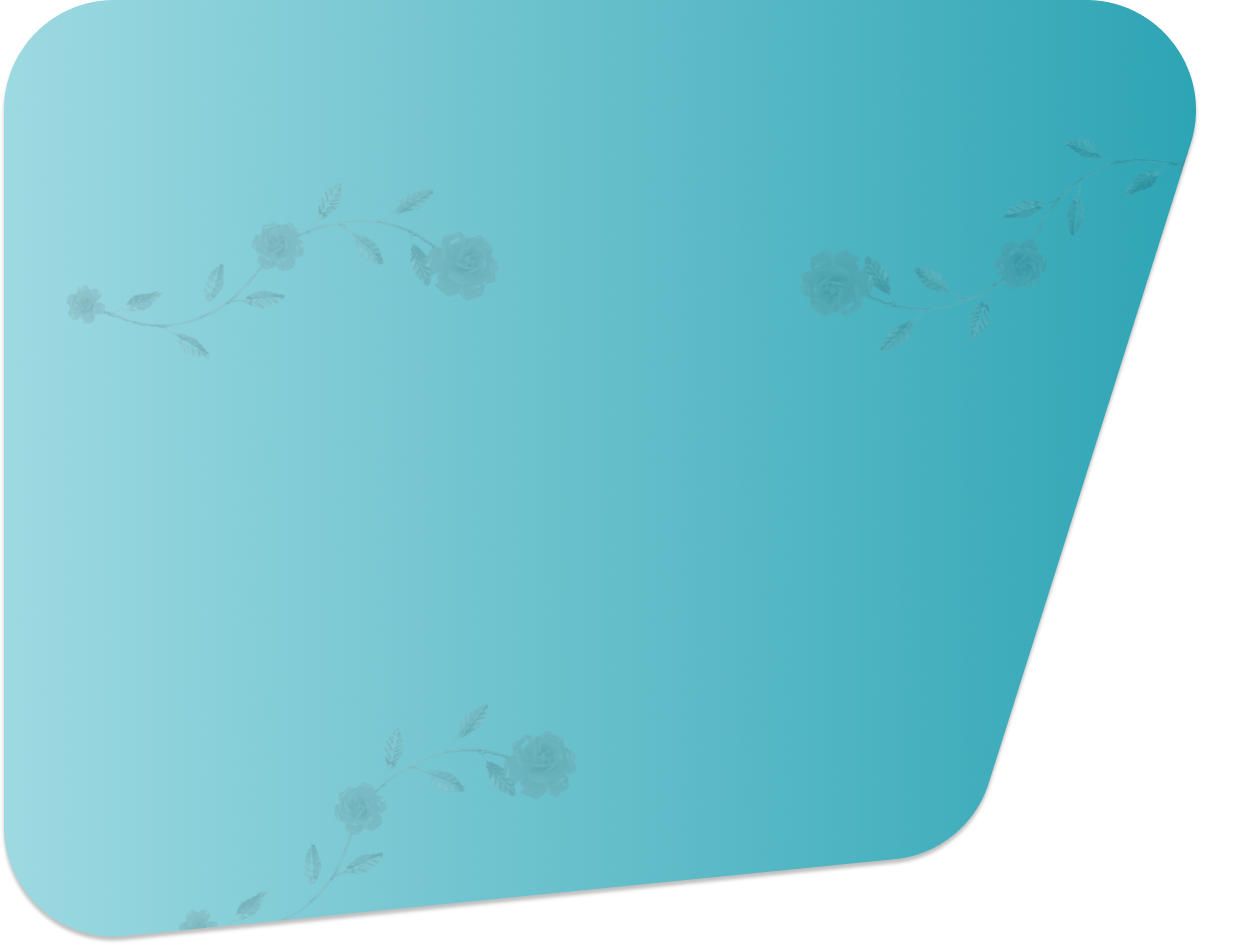
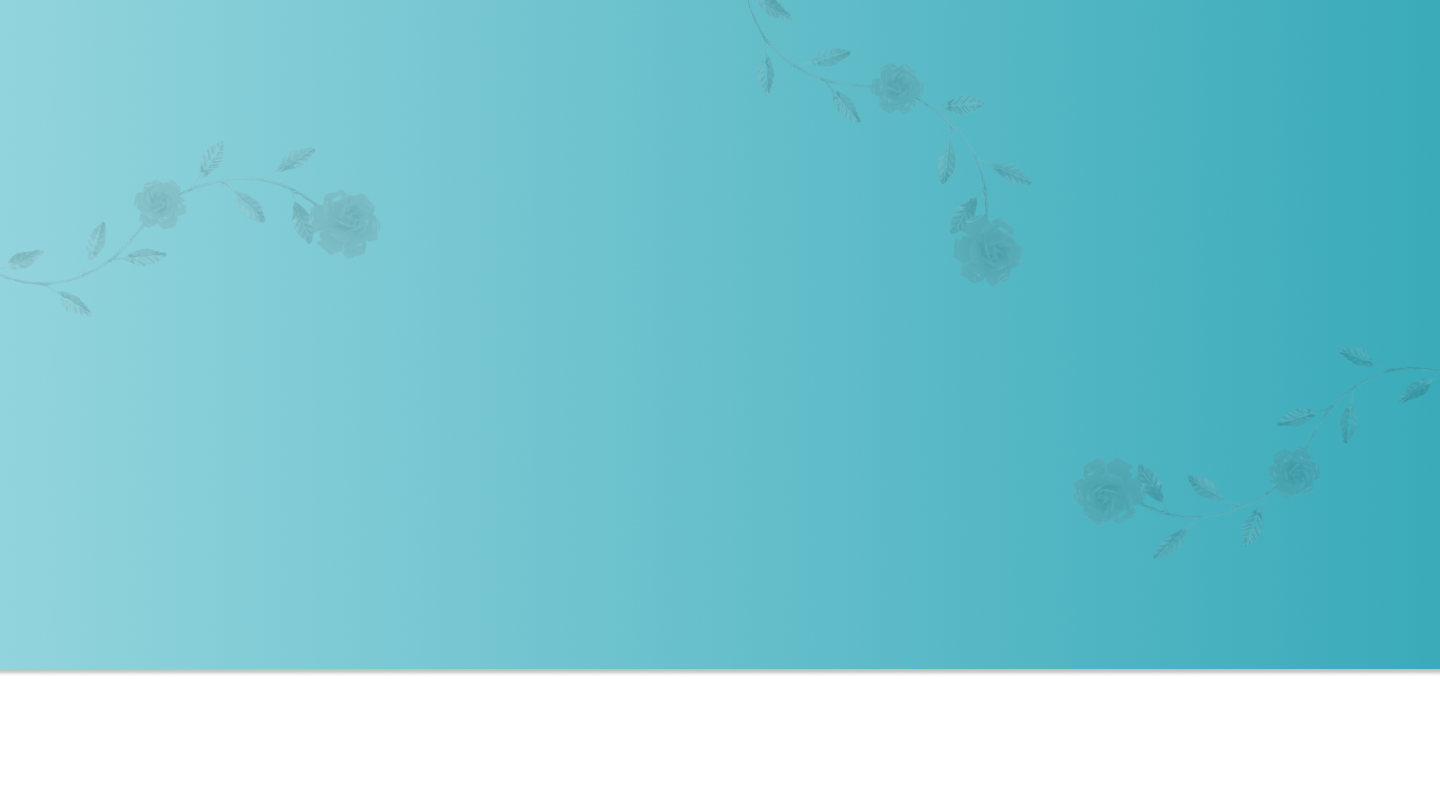
Refatoração

Changed region(s): [[0.0, 0.0, 1.0, 1.0], [0.2152, 0.2748, 0.246, 0.3053], [0.0922, 0.2443, 0.123, 0.2748]]

diff --git a/index.html b/index.html
@@ -17,9 +17,9 @@
 </head>
     
 <body>
+
     <header>
-        <img src="img/BG-01.png" class="css-bg-01">
-        <nav class="navbar navbar-expand-lg navbar-light bg-light css-navbar">
+        <nav class="navbar navbar-expand-lg navbar-light css-navbar">
             <div class="container-fluid">
                 <button class="navbar-toggler" type="button" data-bs-toggle="collapse" data-bs-target="#navbarNav" aria-controls="navbarNav" aria-expanded="false" aria-label="Toggle navigation">
                     <span class="navbar-toggler-icon"></span>
@@ -51,20 +51,20 @@
     </header>
 
     <main>
-        <section id="secao-princial" class="row m-5 justify-content-center">
+        <section id="secao-princial" class="row m-0 p-5 justify-content-center">
             <div class="d-flex flex-column justify-content-evenly p-5 col-12 col-xxl-6">
                 <div class="css-texto fs-1 css-fonte-titulo-principal">Vinícius & Mayumi</div>
                 <div class="css-texto fs-2 css-fonte-titulo-principal">27.11.2022</div>
                 <div class="css-texto css-texto-tamanho-limite">Lorem Ipsum is simply dummy text of the printing and typesetting industry. Lorem Ipsum has been the industry's standard dummy text ever since the 1500s, when an unknown printer took a galley of type and scrambled it to make a type specimen book.</div>
             </div>
             <div class="d-flex justify-content-center p-5 col-12 col-xxl-6">
-                <img src="img/Imagem - Destaque.png">
+                <img src="img/Imagem - Destaque.png" class="css-fotos">
             </div>
         </section>
 
         <section id="secao-sobre-nos" class="row m-5 justify-content-center">
             <div class="d-flex justify-content-center p-5 col-12 col-xxl-4">
-                <img src="img/Imagem - Sobre nós - Noiva.png">
+                <img src="img/Imagem - Sobre nós - Noiva.png" class="css-noivos">
             </div>
             <div class="d-flex justify-content-center p-5 col-12 col-xxl-4">
                 <div class="column">
@@ -76,12 +76,11 @@
                 </div>
             </div>
             <div class="d-flex justify-content-center p-5 col-12 col-xxl-4">
-                <img src="img/Imagem - Sobre nós - Noivo.png">
+                <img src="img/Imagem - Sobre nós - Noivo.png" class="css-noivos">
             </div>
         </section>
 
         <section id="fotos" class="column corta-fotos">
-            <img src="img/BG-02.png" class="css-bg-02">
             <div class="css-fonte-titulo text-center p-1">Fotos</div>
             <div class="d-flex justify-content-center p-1">
                 <img src="img/Linha-sobre-nos.svg">
@@ -93,22 +92,22 @@
                         <div class="col-xxl-12">
                             <div id="id-fotos" class="owl-carousel">
                                 
-                                <!-- Foto 1 -->
+                                
                                 <div class="item">
                                     <img class="img-circle" src="img/Imagem - Destaque.png">
                                 </div>
 
-                                <!-- Foto 2 -->
+                                
                                 <div class="item">
                                     <img class="img-circle" src="img/Imagem - Destaque.png">
                                 </div>
 
-                                <!-- Foto 3 -->
+                               
                                 <div class="item">
                                     <img class="img-circle" src="img/Imagem - Destaque.png">
                                 </div>
 
-                                <!-- Foto 4 -->
+                                
                                 <div class="item">
                                     <img class="img-circle" src="img/Imagem - Destaque.png">
                                 </div>
@@ -120,26 +119,24 @@
             </div>
         </section>
 
-        <section id="Evento">
-            <img src="img/BG-03.png" class="css-bg-03">
-            <div class="css-fonte-titulo text-center p-1">Evento</div>
+        <section id="evento">
+            <div class="css-fonte-titulo-secundario text-center pt-4">Evento</div>
             <div class="d-flex justify-content-center p-3">
-                <img src="img/Linha-sobre-nos.svg">
+                <img src="img/Linha-evento.svg">
             </div>
-            <div class=" text-center p-1">O evento será realizado no Espaço Villa II</div>
+            <div class="css-texto-secundario text-center p-1">O evento será realizado no Espaço Villa II</div>
             <div class="d-flex justify-content-center p-5">
                 <iframe  src="https://www.google.com/maps/embed?pb=!1m18!1m12!1m3!1d3660.9755796051672!2d-46.591359800000006!3d-23.425249299999997!2m3!1f0!2f0!3f0!3m2!1i1024!2i768!4f13.1!3m3!1m2!1s0x94cef5bbcb4278a1%3A0x86013c8474a85ac0!2sEspa%C3%A7o%20Villa%20Borghese!5e0!3m2!1spt-BR!2sbr!4v1645749438758!5m2!1spt-BR!2sbr" width="800" height="600" style="border:0;" allowfullscreen="" loading="lazy"></iframe>
             </div>
         </section>
 
         <section id="Confimação de presença">
-            <img src="img/BG-04.png" class="css-bg-04">
             <div class="d-flex justify-content-center">
-                <img src="img/Imagem - Quebra linha.png">
+                <img src="img/Imagem - Quebra linha.png" class="css-fotos">
             </div>
             <div class="row m-5 justify-content-center">
                 <div class="d-flex flex-column justify-content-center p-5 col-12 col-xxl-6">
-                    <h2 class="text-center css-fonte-h2 m-5">Confirmação de Presença</h2>
+                    <h2 class="css-fonte-h2 m-4">Confirmação de Presença</h2>
                     <form action="">
                         <div class="form_div">
                             <input type="text" class="form_input" placeholder=" ">
@@ -161,7 +158,7 @@
                     </form>
                 </div>
                 <div class="d-flex justify-content-evenly p-5 col-12 col-xxl-6">
-                    <img src="img/Imagem - Destaque.png">
+                    <img src="img/Imagem - Destaque.png" class="css-fotos">
                 </div>
             </div>
         </section>
@@ -173,18 +170,30 @@
             </div>
             <div class="row m-5 justify-content-center">
                 <div class="d-flex justify-content-evenly p-5 col-12 col-xxl-6">
-                    <img src="img/Imagem - Presente.png">
+                    <img src="img/Imagem - Presente.png" class="css-fotos">
                 </div>
                 <div class="d-flex justify-content-evenly p-5 col-12 col-xxl-6">
                     <div class="">Lorem Ipsum is simply dummy text of the printing and typesetting industry. Lorem Ipsum has been the industry's standard dummy text ever since the 1500s, when an unknown printer took a galley of type and scrambled it to make a type specimen book. Lorem Ipsum is simply dummy text of the printing and typesetting industry. Lorem Ipsum has been the industry's standard dummy text ever since the 1500s, when an unknown printer took a galley of type and scrambled it to make a type specimen book Lorem Ipsum is simply dummy text of the printing and typesetting industry. Lorem Ipsum has been the industry's standard dummy text ever since the 1500s, when an unknown printer took a galley of type and scrambled it to make a type specimen book. Lorem Ipsum is simply dummy text of the printing and typesetting industry. Lorem Ipsum has been the industry's standard dummy text ever since the 1500s, when an unknown printer took a galley of type and scrambled it to make a type specimen book. Lorem Ipsum is simply dummy text of the printing and typesetting industry. Lorem Ipsum has been the industry's standard dummy text ever since the 1500s, when an unknown printer took a galley of type and scrambled it to make a type specimen book. Lorem Ipsum is simply dummy text of the printing and typesetting industry. Lorem Ipsum has been the industry's standard dummy text ever since the 1500s, when an unknown printer took a galley of type and scrambled it to make a type specimen book.</div>
                 </div>
             </div>
         </section>
+
     </main>
 
-    <footer>
-        
+    <footer class="row m-0 p-5 justify-content-center">
+            <div class="d-flex flex-column justify-content-center p-5 col-12 col-xxl-4">
+                <p class="css-footer-texto text-center">Vinícius & Mayumi</p>
+                <p class="css-footer-texto text-center">27.11.2022</p>
+            </div>
+            <div class="d-flex justify-content-center p-5 col-12 col-xxl-4">
+                <img src="img/Imagem - Instagram.png" class="px-5" id="imagem-instagram">
+                <div>
+                    <p class="css-footer-texto text-center">@vini_especoto</p>
+                    <p class="css-footer-texto text-center">@takahashi.may2</p>
+                </div>
+            </div>
     </footer>
+
     <script src="https://code.jquery.com/jquery-3.6.0.slim.min.js" integrity="sha256-u7e5khyithlIdTpu22PHhENmPcRdFiHRjhAuHcs05RI=" crossorigin="anonymous"></script>
     <script src="https://cdnjs.cloudflare.com/ajax/libs/OwlCarousel2/2.3.4/owl.carousel.js" integrity="sha512-gY25nC63ddE0LcLPhxUJGFxa2GoIyA5FLym4UJqHDEMHjp8RET6Zn/SHo1sltt3WuVtqfyxECP38/daUc/WVEA==" crossorigin="anonymous" referrerpolicy="no-referrer"></script>
     <script src="https://cdn.jsdelivr.net/npm/bootstrap@5.1.3/dist/js/bootstrap.bundle.min.js" integrity="sha384-ka7Sk0Gln4gmtz2MlQnikT1wXgYsOg+OMhuP+IlRH9sENBO0LRn5q+8nbTov4+1p" crossorigin="anonymous"></script>

diff --git a/style.css b/style.css
@@ -1,12 +1,43 @@
 header{
-    padding: 40px 0px;
+    padding: 20px 0px;
     display: flex;
     justify-content: center;
 }
 
 body{
-    overflow-x: hidden; 
+    background: #ffffff;
 }
+
+.css-navbar {
+    height: 47px;
+    width: auto;
+    padding: 10px;
+    border-radius: 8px;
+}
+
+
+#secao-princial{
+    background: url('img/BG-01.png') no-repeat;
+    background-size: cover;
+}
+
+.css-fotos{
+    max-width: 100vw;
+}
+
+.css-noivos{
+    width: 100%;
+    max-width: 400px;
+    height: 100%;
+    max-height: 660px;
+}
+
+#evento{
+    background: url('img/BG-02.png') no-repeat;
+    background-size: cover;
+}
+
+/* Formulário */
 
 .form{
     width: 360px;
@@ -48,7 +79,7 @@ body{
 }
 
 .form_button{
-    width: 50%;
+    width: 80%;
     display: block;
     margin: auto;
     padding: .75rem 2rem;
@@ -94,41 +125,7 @@ body{
     border: 1.5px solid #12363A;
 }
 
-.css-bg-01 {
-    position: absolute;
-    width: 1232px;
-    height: 948px;
-    left: -150px;
-    top: -200px;
-    z-index: -1;
-}
-
-.css-bg-02{
-    position: absolute;
-    width: 1080px;
-    height: 857px;
-    left: 991.5px;
-    top: 1295px;
-    z-index: -1;
-}
-
-.css-bg-03{
-    position: absolute;
-    width: 1049,5px;
-    height: 1000px;
-    left: -495px;
-    top: 2204px;
-    z-index: -1;
-}
-
-.css-bg-04 {
-    position: absolute;
-    width: 1111px;
-    height: 857px;
-    left: 1028px;
-    top: 2976px;
-    z-index: -1;
-}
+/* Carrosel de fotos */
 
 #id-fotos .item{
     padding: 0px;
@@ -152,12 +149,7 @@ body{
     margin: 0 auto 20px;
 }
 
-.css-navbar {
-    height: 47px;
-    width: 725px;
-    padding: 10px;
-    border-radius: 8px;
-}
+/* Para texto */
 
 .css-texto{
     color: white;
@@ -180,12 +172,50 @@ body{
     color: #12363A;
 }
 
+.css-fonte-titulo-secundario {
+    font-family: Work Sans;
+    font-size: 20px;
+    font-weight: bold;
+    line-height: 23px;
+    letter-spacing: -0.02em;
+    color: #ffffff;
+}
+
+.css-texto-secundario{
+    color: #ffffff;
+}
+
 .css-fonte-h2 {
     font-family: Work Sans;
     font-weight: bold;
     line-height: 23px;
     letter-spacing: -0.02em;
     color: #12363A;
+    text-align: center;
+}
+
+/* Rodapé */
+
+footer{
+    background: url('img/BG-05.png') no-repeat;
+    background-size: cover;
+}
+
+.css-footer-texto{
+    font-family: Work Sans;
+    font-style: normal;
+    font-weight: Bold;
+    font-size: 20px;
+    line-height: 23px;
+    letter-spacing: -0.02em;
+    color: #FFFFFF;
+}
+
+#imagem-instagram{
+    width: 100%;
+    max-width: 165px;
+    height: 100%;
+    max-height: 70px;
 }
 
 
@@ -201,49 +231,23 @@ body{
         width: auto;
     }
 
-    .css-texto-tamanho-limite{
-        max-width: 60%;
-    }
-
-    .css-bg-01 {
-        position: absolute;
-        max-width: 750x;
-        height: 948px;
-        left: -520px;
-        top: -233px;
-        z-index: -1;
-    }
-
-
-    .css-bg-02 {
-        position: absolute;
-        width: 1080px;
-        height: 857px;
-        left: 200px;
-        top: 2150px;
-        z-index: -1;
-    }
-
-    .css-bg-03{
-        position: absolute;
-        width: 1049,5px;
-        height: 800px;
-        left: -595px;
-        top: 3250px;
-        z-index: -1;
-    }
-
-    .css-bg-04 {
-        position: absolute;
-        width: 1080px;
-        height: 857px;
-        left: 200px;
-        top: 4450px;
-        z-index: -1;
-    }
-
     .css-navbar{
         border-radius: 0px;
         width: auto;
     }
+
+    .css-img{
+        width: 100vw;
+    }
+
+    .css-texto-tamanho-limite{
+        max-width: 70%;
+    }
+
+    .button_position{
+        text-align: center;
+        padding-top: 50px;
+    }
+
+    
 }
